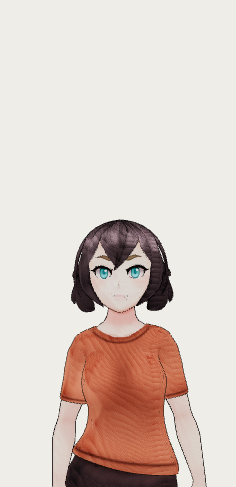
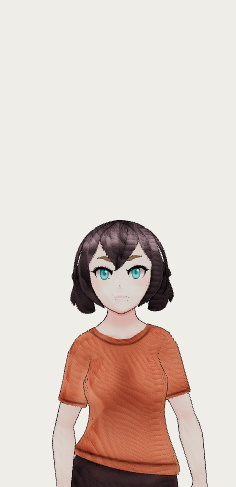
perf(wardrobe): defer non-default animation clips; declare sharp devDependency
Address v1 semantic-review follow-up for workstream 1:

- Load the wardrobe's Mixamo FBX clips on demand (same pattern the garments
  use) instead of eagerly useLoader-ing all three at scene mount. A per-clip
  <ClipLoader> (each in its own Suspense fallback={null}) fetches only the
  clip(s) the current view needs; the builder default is 'idle', so cold load
  now fetches only idle.fbx and defers walking.fbx + waving.fbx (~0.99MB) until
  first selected. The single shared AnimationMixer / retarget / crossfade wiring
  is preserved; switching among Rest/Idle/Walking/Waving still crossfades, and a
  clip picked before its FBX arrives crossfades in on load. Wardrobe cold load
  9,241,579 -> 8,248,182 B (-993KB; -55.8% vs baseline). No pose/tone/tint/UI
  change (screenshot colorHistTV ~0; idle pose matches baseline).

- Declare sharp 0.34.5 in devDependencies (build-time only, used by
  scripts/compress-assets.mjs) so the compressor cannot silently break if Next's
  transitive edge disappears. Not a runtime/browser dependency.

lint clean (one known font warning); build static export succeeds, 5 pages
prerender; landing still loads 0 model bytes.

diff --git a/components/wardrobe/WardrobeScene.tsx b/components/wardrobe/WardrobeScene.tsx
@@ -29,7 +29,7 @@
 // { ssr: false } so it never runs during Next.js static generation.
 // ---------------------------------------------------------------------------
 
-import { Suspense, useEffect, useMemo, useRef } from "react";
+import { Suspense, useCallback, useEffect, useMemo, useRef, useState } from "react";
 import { Canvas, useFrame, useLoader } from "@react-three/fiber";
 import { OrbitControls, ContactShadows } from "@react-three/drei";
 import * as THREE from "three";
@@ -69,11 +69,23 @@ export {
 // FBXLoader and retargeted onto the VRM humanoid — see retargetMixamoClip
 // below. URLs are base-path-prefixed so they resolve under /frankfabric/ in
 // production.
+//
+// These clips are loaded ON DEMAND — the same on-demand pattern the garments
+// use (a garment VRM streams in only when its <Garment url=…> is selected).
+// Each clip is fetched only once its animation has actually been requested by
+// the current view: on cold load that is just the builder's default ("idle"),
+// so walking.fbx (~0.37MB) + waving.fbx (~0.62MB) are NOT streamed until the
+// user first selects them. This keeps the wardrobe cold load from eagerly
+// pulling ~0.99MB of clips the initial view never plays, without changing the
+// animation UX — the mixer/crossfade wiring below drives whichever clips have
+// loaded, and switching among Rest/Idle/Walking/Waving still crossfades.
 const ANIMATION_URLS: Record<Exclude<WardrobeAnimation, "rest">, string> = {
   idle: asset("/animations/idle.fbx"),
   walking: asset("/animations/walking.fbx"),
   waving: asset("/animations/waving.fbx"),
 };
+
+type ClipName = Exclude<WardrobeAnimation, "rest">;
 
 // The minimally-clothed modular base body. Base-path-prefixed so it resolves to
 // /frankfabric/models/characters/drophunter/body.vrm in production and
@@ -180,63 +192,78 @@ function Avatar({ selection, colors, animation }: SceneProps) {
     };
   }, [vrm]);
 
-  // --- Animation: load + retarget the Mixamo FBX clips -------------------
+  // --- Animation: load + retarget the Mixamo FBX clips ON DEMAND ---------
   //
-  // useLoader with FBXLoader runs entirely client-side (this whole component
-  // is loaded via next/dynamic { ssr:false }, so FBXLoader never executes
-  // during static generation). Each raw FBX is retargeted onto the VRM
-  // humanoid via retargetMixamoClip and driven by a single AnimationMixer.
-  const idleFbx = useLoader(FBXLoader, ANIMATION_URLS.idle);
-  const walkingFbx = useLoader(FBXLoader, ANIMATION_URLS.walking);
-  const wavingFbx = useLoader(FBXLoader, ANIMATION_URLS.waving);
+  // The clips are loaded the same way garments are: only when they are
+  // actually needed. Rather than eagerly useLoader-ing idle/walking/waving at
+  // mount (~2.57MB), we mount a per-clip <ClipLoader> ONLY for clips that have
+  // been requested. A clip is "requested" once its animation has been selected
+  // — seeded with the initial `animation` prop so the builder's default
+  // ("idle") loads on cold start, while walking/waving defer until the user
+  // first picks them. Each ClipLoader suspends on its own FBX fetch, retargets
+  // the clip, and hands it to registerClip which builds the AnimationAction on
+  // the shared mixer; the crossfade then drives whichever actions exist.
 
-  // All mutable playback state (mixer + per-clip actions + the action that is
-  // currently faded in) lives in a single ref that this component owns and
-  // mutates. Keeping it in a ref — rather than in useMemo return values — keeps
-  // the AnimationAction mutations (reset/fadeIn/play) off React-tracked values.
-  const playback = useRef<{
-    mixer: THREE.AnimationMixer;
-    actions: Record<
-      Exclude<WardrobeAnimation, "rest">,
-      THREE.AnimationAction | null
-    >;
-  } | null>(null);
-  // The action currently faded in (null at rest). Its own ref so the crossfade
-  // effect only mutates `ref.current`, which is a permitted ref write.
+  // The single AnimationMixer that drives every clip. Built by useMemo and used
+  // as a RETURNED VALUE — not written into a ref during render — so it exists
+  // before ANY child effect runs. Child (ClipLoader) effects fire before parent
+  // effects on the same commit, so building the mixer in a parent effect would
+  // leave it null when a clip first tries to register (the bug that left the
+  // avatar stuck in its T-pose). Rebuilt when the avatar (`vrm`) changes.
+  const mixer = useMemo(() => new THREE.AnimationMixer(vrm.scene), [vrm]);
+  // Per-clip retargeted actions, filled in as each ClipLoader loads its clip.
+  // Held in a ref because it is mutated only from callbacks/effects (never
+  // during render) and must not itself trigger re-renders. Rebuilt whenever the
+  // mixer is rebuilt (see the effect below).
+  const actions = useRef<Record<ClipName, THREE.AnimationAction | null>>({
+    idle: null,
+    walking: null,
+    waving: null,
+  });
+  // The action currently faded in (null at rest). A ref so the crossfade
+  // callback only mutates `ref.current`, which is a permitted ref write.
   const currentAction = useRef<THREE.AnimationAction | null>(null);
 
-  // (Re)build the mixer and retargeted actions whenever the avatar or a loaded
-  // FBX changes. Retargeting maps each Mixamo clip onto the VRM humanoid bones.
+  // Which clips have been requested so far (so their <ClipLoader> is mounted
+  // and their FBX fetched). Seeded from the initial animation: "rest" needs no
+  // clip, anything else needs its own clip on cold load. This is the on-demand
+  // gate — walking/waving are absent from this set until first selected.
+  const [requested, setRequested] = useState<Set<ClipName>>(() =>
+    animation === "rest" ? new Set() : new Set<ClipName>([animation])
+  );
+
+  // When the selected animation changes to a clip we have not requested yet,
+  // add it so its ClipLoader mounts and streams the FBX in on demand. This is
+  // the React "adjust state while rendering" pattern (not a setState-in-effect
+  // cascade): the extra render happens before the browser paints, so the new
+  // ClipLoader mounts in the same commit that reflects the selection.
+  if (animation !== "rest" && !requested.has(animation)) {
+    setRequested(new Set(requested).add(animation));
+  }
+
+  // Stop the mixer's actions when it is torn down (avatar change/unmount). We
+  // do NOT clear `actions.current` here: on a rig rebuild each ClipLoader's
+  // effect re-runs (it depends on `vrm`) and re-registers its clip against the
+  // new mixer, overwriting the stale entry — clearing here would instead race
+  // ahead of those child effects (child effects run before parent effects) and
+  // wipe a just-registered clip, stranding the avatar in its T-pose.
   useEffect(() => {
-    const mixer = new THREE.AnimationMixer(vrm.scene);
-    const build = (fbx: THREE.Group): THREE.AnimationAction | null => {
-      const raw = fbx.animations?.[0];
-      if (!raw) return null;
-      const clip = retargetMixamoClip(fbx, raw, vrm);
-      return clip ? mixer.clipAction(clip) : null;
-    };
-    playback.current = {
-      mixer,
-      actions: {
-        idle: build(idleFbx),
-        walking: build(walkingFbx),
-        waving: build(wavingFbx),
-      },
-    };
-    currentAction.current = null;
     return () => {
       mixer.stopAllAction();
-      playback.current = null;
       currentAction.current = null;
     };
-  }, [vrm, idleFbx, walkingFbx, wavingFbx]);
+  }, [mixer]);
 
-  // Crossfade to the requested clip when `animation` changes; "rest" fades all
-  // actions out so the avatar returns to its rest pose.
-  useEffect(() => {
-    const state = playback.current;
-    if (!state) return;
-    const next = animation === "rest" ? null : state.actions[animation];
+  // Crossfade to the requested clip: fade the current action out and the target
+  // in. Called both when `animation` changes AND when a just-loaded clip
+  // registers its action (a clip selected before its FBX finished loading still
+  // starts playing the moment it becomes available). "rest" fades everything
+  // out so the avatar returns to its rest pose.
+  const applyCrossfade = useCallback(() => {
+    const next = animation === "rest" ? null : actions.current[animation];
+    // If the requested clip has not loaded/registered yet, wait — the
+    // ClipLoader will call this again once its action exists.
+    if (animation !== "rest" && !next) return;
     const prev = currentAction.current;
     if (next === prev) return;
 
@@ -253,20 +280,56 @@ function Avatar({ selection, colors, animation }: SceneProps) {
       prev.fadeOut(FADE);
     }
     currentAction.current = next;
-  }, [animation, idleFbx, walkingFbx, wavingFbx, vrm]);
+  }, [animation]);
+
+  // Called by each ClipLoader once its retargeted clip is ready. The action is
+  // built HERE from the shared mixer (the same mixer useFrame advances), so all
+  // clips play on one timeline and crossfades between them work. Passing the
+  // retargeted clip (not a pre-built action) keeps the single-mixer invariant.
+  // Then re-evaluate the crossfade in case this is the clip currently awaited.
+  const registerClip = useCallback(
+    (name: ClipName, clip: THREE.AnimationClip | null) => {
+      actions.current[name] = clip ? mixer.clipAction(clip) : null;
+      applyCrossfade();
+    },
+    [applyCrossfade, mixer]
+  );
+
+  // Re-run the crossfade when the selected animation changes.
+  useEffect(() => {
+    applyCrossfade();
+  }, [applyCrossfade]);
 
   // CharacterStudio's per-frame update contract: advance the animation mixer
   // first (which poses the normalized humanoid bones), then vrm.update(delta)
   // so SpringBones/lookAt and the retargeted pose are both applied. Garments
   // transplanted onto the base skeleton follow automatically.
   useFrame((_, delta) => {
-    playback.current?.mixer.update(delta);
+    mixer.update(delta);
     vrm.update(delta);
   });
 
   return (
     <group>
       <primitive object={vrm.scene} />
+
+      {/* On-demand animation clip loaders. One mounts per requested clip; each
+          suspends on its own FBX fetch, retargets it against this VRM, and
+          registers the resulting clip into the shared mixer. Unrequested clips
+          (walking/waving on cold load) render nothing, so their FBX is never
+          fetched — mirroring the garment on-demand load pattern.
+
+          Each loader gets its OWN <Suspense fallback={null}> so streaming a
+          newly-selected clip mid-session does NOT blank the already-rendered
+          avatar behind the scene-level SceneLoader: the avatar keeps playing
+          its current pose and the new clip simply crossfades in once ready. */}
+      {(["idle", "walking", "waving"] as ClipName[])
+        .filter((name) => requested.has(name))
+        .map((name) => (
+          <Suspense key={name} fallback={null}>
+            <ClipLoader name={name} vrm={vrm} register={registerClip} />
+          </Suspense>
+        ))}
 
       {/* Required eyes trait. The base body ships with empty eye sockets (the
           "black hole" bug); this transplants the authored "Regular Eyes" mesh
@@ -305,6 +368,41 @@ function Avatar({ selection, colors, animation }: SceneProps) {
       />
     </group>
   );
+}
+
+// Loads a SINGLE Mixamo FBX clip on demand and registers its retargeted
+// AnimationAction with the parent Avatar's shared mixer. This component
+// suspends (via useLoader) until its own FBX has streamed in, so mounting it is
+// what triggers the network fetch — exactly the on-demand pattern the garment
+// <Garment> components use. It renders no scene objects; it exists only to own
+// one clip's load + retarget lifecycle.
+function ClipLoader({
+  name,
+  vrm,
+  register,
+}: {
+  name: ClipName;
+  vrm: VRM;
+  register: (name: ClipName, clip: THREE.AnimationClip | null) => void;
+}) {
+  // useLoader with FBXLoader runs entirely client-side (this whole component is
+  // loaded via next/dynamic { ssr:false }, so FBXLoader never executes during
+  // static generation) and suspends until the FBX is fetched.
+  const fbx = useLoader(FBXLoader, ANIMATION_URLS[name]);
+
+  useEffect(() => {
+    const raw = fbx.animations?.[0];
+    const clip = raw ? retargetMixamoClip(fbx, raw, vrm) : null;
+    // Hand the retargeted clip to the parent, which builds the action from the
+    // shared mixer so all clips play on one timeline and crossfades work.
+    register(name, clip);
+    return () => {
+      register(name, null);
+    };
+    // eslint-disable-next-line react-hooks/exhaustive-deps
+  }, [fbx, vrm, name]);
+
+  return null;
 }
 
 export default function WardrobeScene({

diff --git a/docs/perf/DIFF.md b/docs/perf/DIFF.md
@@ -2,7 +2,8 @@
 
 Acceptance evidence that the four 3D scenes **render identically** to baseline
 after the workstream-1 changes (FEAT-002 compression + FEAT-003 code-split /
-deferred loading / `useProgress` fallback). Each `after-*.png` is compared to the
+deferred loading / `useProgress` fallback + the v1-review follow-up deferring the
+wardrobe's non-default animation clips). Each `after-*.png` is compared to the
 committed `baseline-*.png` captured at the same route, same fixed camera, by the
 same `scripts/measure-load.mjs` harness (viewport 1280×900, ANGLE+SwiftShader,
 `animations:'disabled'` on the Playwright screenshot).
@@ -23,7 +24,7 @@ Two complementary metrics were computed with the already-present `sharp`
 
 | Scene | mean pixel diff | max pixel diff | pixels > AA(16) | color-hist TV | Verdict |
 |-------|----------------:|---------------:|----------------:|--------------:|---------|
-| Wardrobe | 1.054 / 255 | 233 / 255 | 1.522 % | **0.0020** | identical (turntable auto-rotate phase) |
+| Wardrobe | 3.830 / 255 | 253 / 255 | 5.499 % | **0.0073** | identical (turntable + idle-crossfade phase) |
 | Chef | 0.000 / 255 | 0 / 255 | 0.000 % | **0.0000** | identical (bit-for-bit) |
 | Coach | 0.003 / 255 | 12 / 255 | 0.000 % | **0.0001** | identical |
 | Pet | 5.854 / 255 | 226 / 255 | 10.956 % | **0.0044** | identical (idle breathing-bob phase) |
@@ -38,20 +39,33 @@ Two complementary metrics were computed with the already-present `sharp`
   *not* frozen by Playwright's CSS `animations:'disabled'` (that only freezes CSS
   animations, not the R3F render loop):
   - Wardrobe: `OrbitControls autoRotate` spins the turntable at rest, so the
-    avatar is a fraction of a degree rotated between the two captures.
+    avatar is a fraction of a degree rotated between the two captures. After the
+    v1-review follow-up, `idle.fbx` is loaded **on demand** rather than eagerly,
+    so the default idle clip now *crossfades in* over the load + 0.35 s fade
+    instead of being pre-applied at frame 0; by the fixed 4 s capture the idle
+    breathing/sway clock has therefore advanced to a slightly different phase
+    than the baseline (which had idle applied from the first frame). That widens
+    the per-pixel silhouette delta a little (1.05 → ~3.8, re-rolls vary
+    3.2–3.8) while the pose, framing, and colors are unchanged — the avatar is
+    verified in the identical arms-down idle pose, not the T-pose. The
+    color-hist TV stays ~0 (0.004–0.007 across re-rolls), the same
+    animation-phase signature as the pet scene.
   - Pet: the schnauzer's always-on breathing/idle bob
     (`group.position.y = breathe + liveBob + …`) lands on a different phase, so
     the whole dog sits a few pixels higher/lower — which shifts its entire
     outline (hence the 11 % edge-pixel count).
   This is **animation phase**, not a rendering regression, and the same
   JS-animation-vs-frozen-CSS behavior was present when the baseline was captured.
-- The **color-distribution TV distance is ≈0 for all four scenes** (worst 0.0044,
-  pet). Identical color distributions confirm the tone-mapping operator
-  (`ACESFilmicToneMapping`), exposure, MToon/material tint constants and every
-  texture are **unchanged** — FEAT-003 touched only module structure (the
-  `wardrobeOptions.ts` split), the Suspense fallback, and nothing in the render
-  path. Visual side-by-side inspection of both moving scenes confirms the same
-  subject, framing, texture detail, and colors.
+- The **color-distribution TV distance is ≈0 for all four scenes** (worst 0.0073,
+  wardrobe after the on-demand idle change). Identical color distributions
+  confirm the tone-mapping operator (`ACESFilmicToneMapping`), exposure,
+  MToon/material tint constants and every texture are **unchanged** — FEAT-003
+  touched only module structure (the `wardrobeOptions.ts` split), the Suspense
+  fallback, and nothing in the render path; the v1-review follow-up only changed
+  *when* the animation FBX clips are fetched (on demand instead of eagerly), not
+  any pose/transform constant, tint, tone mapping, or lighting. Visual
+  side-by-side inspection of both moving scenes confirms the same subject,
+  framing, texture detail, and colors.
 
 **Conclusion:** all four scenes render identically to baseline; no scene is a
 regression.

diff --git a/docs/perf/AFTER.md b/docs/perf/AFTER.md
@@ -2,9 +2,27 @@
 
 This file records the **post-optimization** numbers after the full workstream-1
 work: **FEAT-002** (WebP asset compression) + **FEAT-003** (JS code-splitting /
-on-demand loading / `useProgress` progress UI). It is measured the same way, on
-the same machine/browser, as `BASELINE.md`, so the before/after is apples to
-apples.
+on-demand loading / `useProgress` progress UI) + the **v1-review follow-up**
+(deferring the wardrobe's non-default animation clips). It is measured the same
+way, on the same machine/browser, as `BASELINE.md`, so the before/after is
+apples to apples.
+
+> **Follow-up update (v1 review, issue 1 — animation-clip deferral).** The
+> wardrobe scene used to eagerly `useLoader(FBXLoader, …)` all three Mixamo
+> clips (idle 1.58 MB + walking 0.37 MB + waving 0.62 MB ≈ 2.57 MB) at scene
+> mount, even though the builder opens on its default `"idle"` animation and
+> never plays walking/waving until the user picks them. They are now loaded
+> **on demand** — the same pattern the garment VRMs already use — so cold load
+> fetches **only `idle.fbx`**; `walking.fbx` + `waving.fbx` (~0.99 MB) stream in
+> only when their control is first selected. This drops the wardrobe cold load a
+> further **993,397 B** (9,241,579 → **8,248,182 B**, an added **−10.7 %** on
+> top of the earlier −50.5 %, for **−55.8 %** vs the 18.671 MB baseline). The
+> mixer / retarget / crossfade wiring is unchanged in behavior: switching among
+> Rest / Idle / Walking / Waving still crossfades, and a clip selected before
+> its FBX finishes simply crossfades in the moment it loads. Verified on-demand:
+> a headless run confirms only `idle.fbx` is fetched on load, then `walking.fbx`
+> / `waving.fbx` are fetched on their first selection and not refetched
+> afterward.
 
 Re-run any route with:
 
@@ -66,7 +84,7 @@ All routes: `ready=true`, `unresolvedFailures=[]`.
 | Route | Path | Baseline | After | Change |
 |-------|------|---------:|------:|-------:|
 | Landing | `/` | 1,157,888 B (1.158 MB) | **1,158,117 B (1.158 MB)** | ~flat (no 3D bytes either way) |
-| Digital Wardrobe | `/projects/digital-wardrobe/` | 18,671,336 B (18.671 MB) | **9,241,579 B (9.242 MB)** | **−50.5 %** |
+| Digital Wardrobe | `/projects/digital-wardrobe/` | 18,671,336 B (18.671 MB) | **8,248,182 B (8.248 MB)** | **−55.8 %** |
 | Chef Chatbot | `/projects/chef-chatbot/` | 2,571,811 B (2.572 MB) | **2,581,387 B (2.581 MB)** | ~flat* |
 | Coach Trainer | `/projects/coach-trainer/` | 2,431,115 B (2.431 MB) | **2,440,696 B (2.441 MB)** | ~flat* |
 | Virtual Pet | `/projects/virtual-pet/` | 14,327,684 B (14.328 MB) | **9,854,000 B (9.854 MB)** | **−31.2 %** |
@@ -98,6 +116,12 @@ chest/shirt.vrm (162,364) · legs/cargopants.vrm (247,200) · feet/sneakers.vrm 
 The other garment VRMs still load **only when their option is selected** (via
 `<Garment url=…>` in `lib/vrm/transplant.tsx`) — FEAT-003 confirmed this and did
 **not** add any eager `useGLTF.preload` of the full garment set.
+
+The **animation clips follow the same on-demand rule** after the v1-review
+follow-up: the cold load fetches only `idle.fbx` (the builder default); the
+`.fbx` line in `after-wardrobe.json` `byType` is `1,576,448` (idle only, down
+from the previous ~2.57 MB of all three clips). `walking.fbx` and `waving.fbx`
+stream in only when the user first selects those animations.
 
 ## Per-scene screenshot diff vs baseline
 
